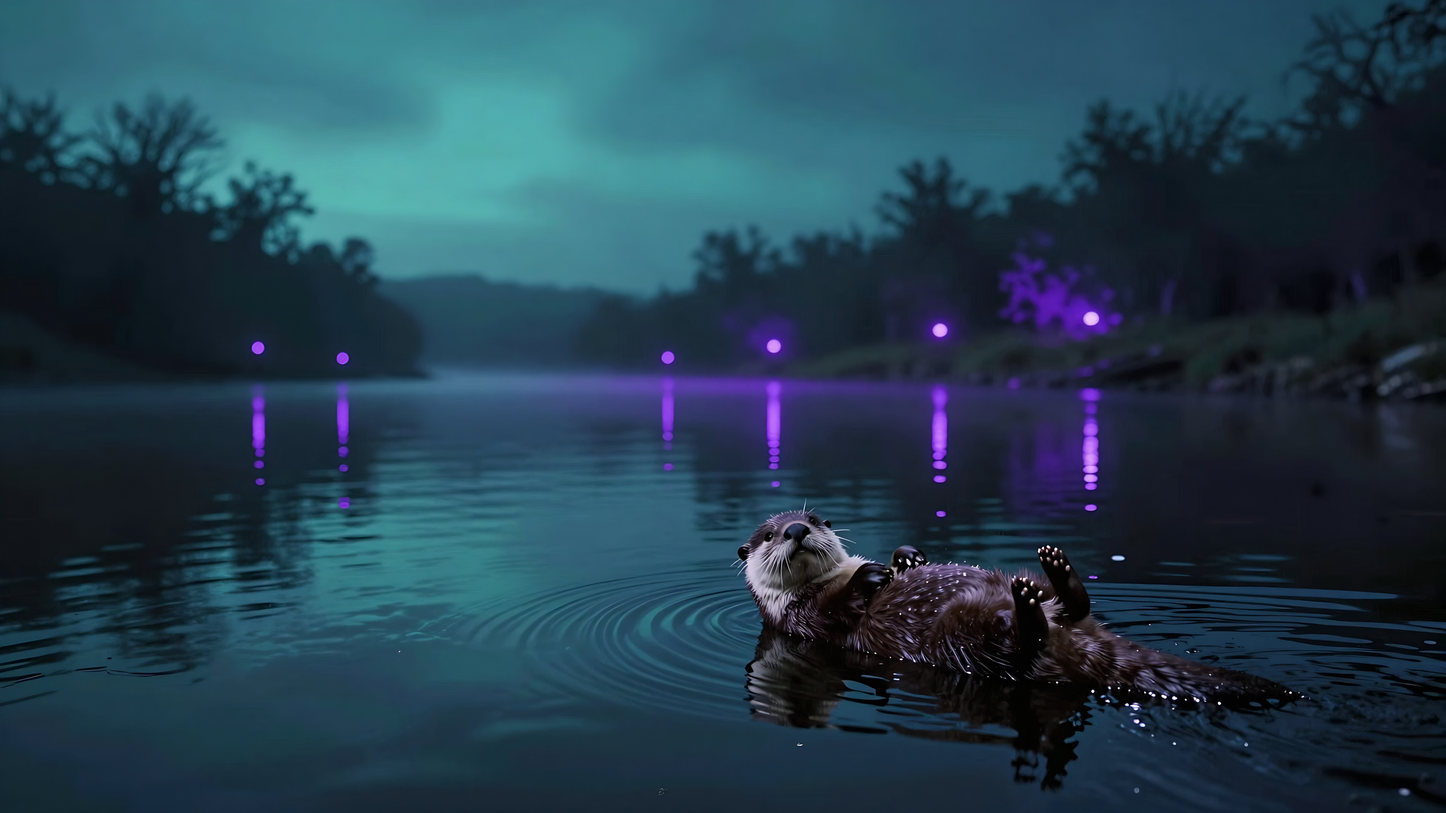
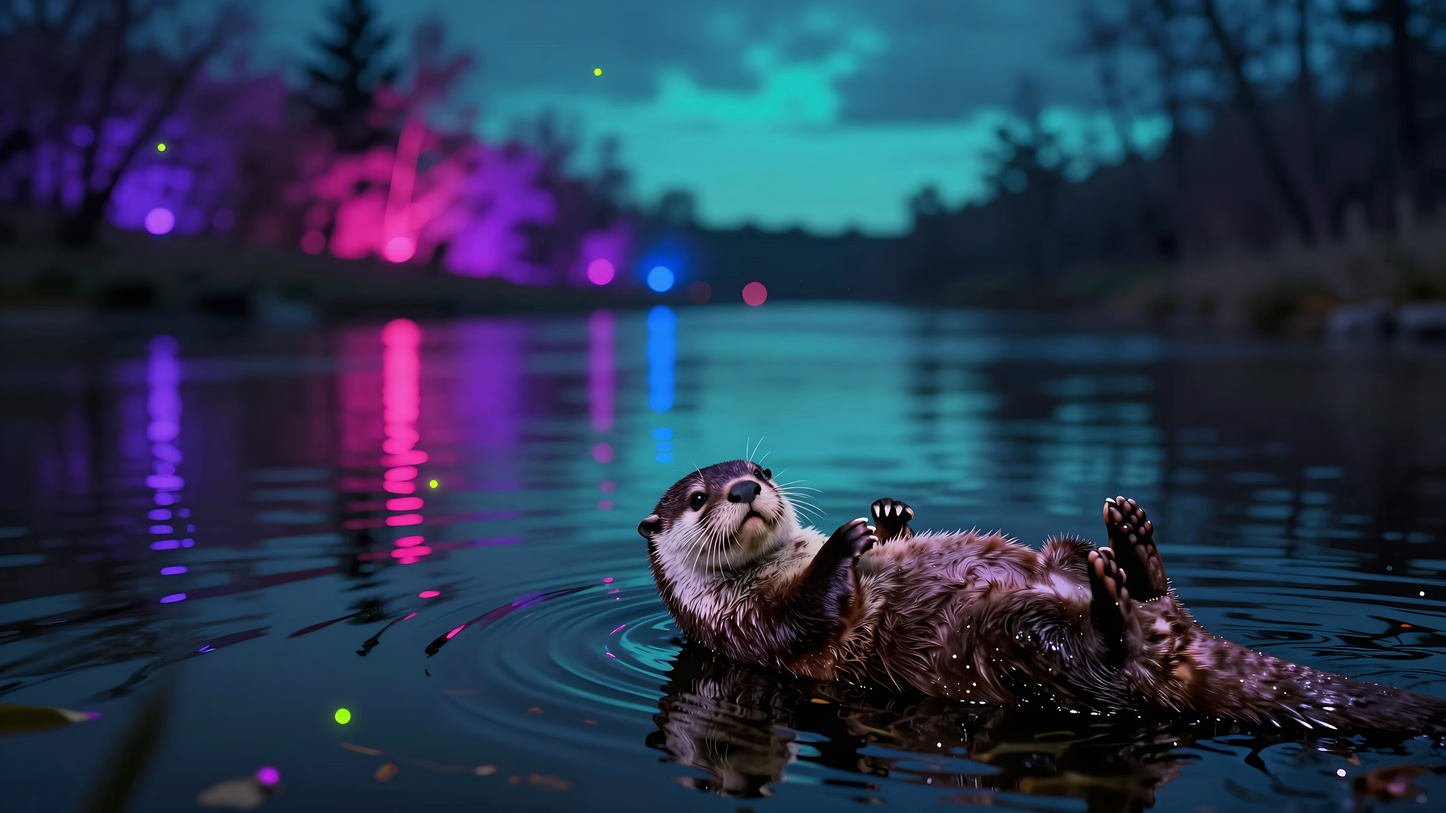
Regenerate neon wallpapers with the five-colour palette
Fresh Z-Image-Turbo renders for all ten wallpapers — electric purple, magenta, electric blue, teal, with lime as a natural accent — packaged to 1920x1080/2560x1440/3840x2160.

diff --git a/tools/wallpapers/color_grade.py b/tools/wallpapers/color_grade.py
@@ -1,0 +1,160 @@
+"""Deterministic colour-grade for neon wallpaper recolours.
+
+Rebalances an already-rendered wallpaper so all five brand neon colours are
+present, preserving composition and luminance.
+
+    python color_grade.py input.png output.png
+
+Brand palette (hex → HSV hue in degrees):
+  purple #B14DFF → 274   magenta #FF4FD8 → 313   electric blue #4F7BFF → 225
+  teal #28E0C8 → 172     lime #C6FF3D → 78       ground #0D0B12 (near-black)
+"""
+
+from __future__ import annotations
+
+import argparse
+from pathlib import Path
+
+import numpy as np
+from PIL import Image
+
+
+# ── HSV helpers (pure numpy, no external deps) ───────────────────────────────
+
+
+def rgb_to_hsv(rgb: np.ndarray) -> tuple[np.ndarray, np.ndarray, np.ndarray]:
+    """Convert RGB [0,1] float32 array of shape (H,W,3) to (H,S,V).
+
+    Hue is returned in [0, 1] where 1.0 == 360 degrees.
+    """
+    r, g, b = rgb[:, :, 0], rgb[:, :, 1], rgb[:, :, 2]
+    cmax = np.maximum(np.maximum(r, g), b)
+    cmin = np.minimum(np.minimum(r, g), b)
+    delta = cmax - cmin
+
+    # Value
+    v = cmax
+
+    # Saturation
+    s = np.where(cmax == 0.0, 0.0, delta / cmax)
+
+    # Hue (in [0,1])
+    h = np.zeros_like(delta)
+    mask_r = (cmax == r) & (delta > 0)
+    mask_g = (cmax == g) & (delta > 0)
+    mask_b = (cmax == b) & (delta > 0)
+
+    h[mask_r] = ((g[mask_r] - b[mask_r]) / delta[mask_r]) % 6.0
+    h[mask_g] = ((b[mask_g] - r[mask_g]) / delta[mask_g]) + 2.0
+    h[mask_b] = ((r[mask_b] - g[mask_b]) / delta[mask_b]) + 4.0
+
+    h = (h / 6.0) % 1.0
+    return h, s, v
+
+
+def hsv_to_rgb(h: np.ndarray, s: np.ndarray, v: np.ndarray) -> np.ndarray:
+    """Convert H,S,V arrays to RGB [0,1] float32 array of shape (H,W,3).
+
+    Hue must be in [0, 1] where 1.0 == 360 degrees.
+    """
+    c = v * s
+    h6 = h * 6.0
+    x = c * (1.0 - np.abs((h6 % 2.0) - 1.0))
+
+    r = np.zeros_like(h)
+    g = np.zeros_like(h)
+    b = np.zeros_like(h)
+
+    m0 = (h6 >= 0.0) & (h6 < 1.0)
+    m1 = (h6 >= 1.0) & (h6 < 2.0)
+    m2 = (h6 >= 2.0) & (h6 < 3.0)
+    m3 = (h6 >= 3.0) & (h6 < 4.0)
+    m4 = (h6 >= 4.0) & (h6 < 5.0)
+    m5 = (h6 >= 5.0) & (h6 < 6.0)
+
+    r[m0] = c[m0]; g[m0] = x[m0]
+    r[m1] = x[m1]; g[m1] = c[m1]
+    g[m2] = c[m2]; b[m2] = x[m2]
+    g[m3] = x[m3]; b[m3] = c[m3]
+    r[m4] = x[m4]; b[m4] = c[m4]
+    r[m5] = c[m5]; b[m5] = x[m5]
+
+    m = v - c
+    return np.stack([r + m, g + m, b + m], axis=-1)
+
+
+# ── Grade pipeline ───────────────────────────────────────────────────────────
+
+
+def grade(input_path: str | Path, output_path: str | Path) -> None:
+    """Colour-grade a single wallpaper PNG in-place."""
+    input_path = Path(input_path)
+    output_path = Path(output_path)
+
+    img = Image.open(input_path)
+    arr = np.asarray(img.convert("RGB"), dtype=np.float32)
+
+    # Normalise to [0,1] based on original bit depth
+    if img.mode == "I;16" or (hasattr(img, "bitdepth") and img.bitdepth == 16):
+        arr = arr / 65535.0
+    else:
+        # Check the raw dtype before convert("RGB") by re-opening
+        raw = Image.open(input_path)
+        if np.asarray(raw).dtype == np.uint16:
+            arr = arr / 65535.0
+        else:
+            arr = arr / 255.0
+
+    h, s, v = rgb_to_hsv(arr)
+
+    # Glow mask
+    glow = (s >= 0.20) & (v >= 0.25)
+
+    # ── Glow pixels ────────────────────────────────────────────────────────
+
+    # 1. Hue remap (monotonic interpolation)
+    hdeg = np.copy(h) * 360.0
+    xp = np.array([0, 150, 195, 245, 260, 285, 340, 360], dtype=np.float64)
+    fp = np.array([150, 150, 195, 245, 260, 315, 318, 360], dtype=np.float64)
+    hdeg[glow] = np.interp(hdeg[glow], xp, fp)
+    hdeg = np.mod(hdeg, 360.0)
+    h = hdeg / 360.0
+
+    # 2. Lime spark – scattered subset of very bright glow pixels
+    bright_glow = glow & (v >= np.percentile(v[glow], 95.0))
+    ys, xs = np.indices(bright_glow.shape)
+    spark_mask = bright_glow & ((ys + xs) % 2 == 0)
+    h[spark_mask] = 78.0 / 360.0
+    s[spark_mask] = np.maximum(s[spark_mask], 0.90)
+
+    # 3. Saturation boost for glow
+    s[glow] = np.clip(s[glow] * 1.18, 0.0, 1.0)
+
+    # ── Non-glow pixels ────────────────────────────────────────────────────
+    s[~glow] = s[~glow] * 0.85
+
+    # V is preserved everywhere (no changes made to v).
+
+    rgb_out = hsv_to_rgb(h, s, v)
+    rgb_out = np.clip(rgb_out, 0.0, 1.0)
+    out_img = Image.fromarray(np.rint(rgb_out * 255.0).astype(np.uint8))
+    out_img.save(str(output_path), "PNG")
+
+
+# ── CLI entry point ──────────────────────────────────────────────────────────
+
+
+def main() -> None:
+    """Parse arguments and run the colour-grade."""
+    parser = argparse.ArgumentParser(
+        description="Deterministic neon colour-grade for HoltOS wallpapers"
+    )
+    parser.add_argument("input", help="Input wallpaper PNG")
+    parser.add_argument("output", help="Output graded PNG")
+    args = parser.parse_args()
+
+    grade(args.input, args.output)
+
+
+if __name__ == "__main__":
+    main()
